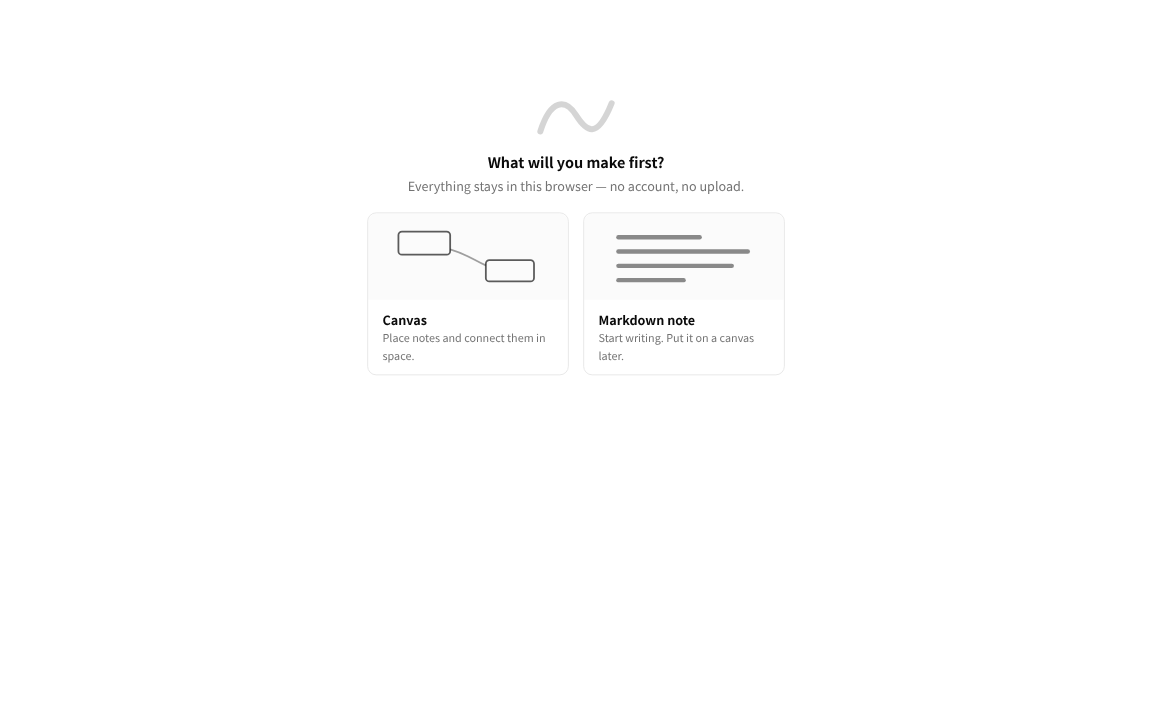
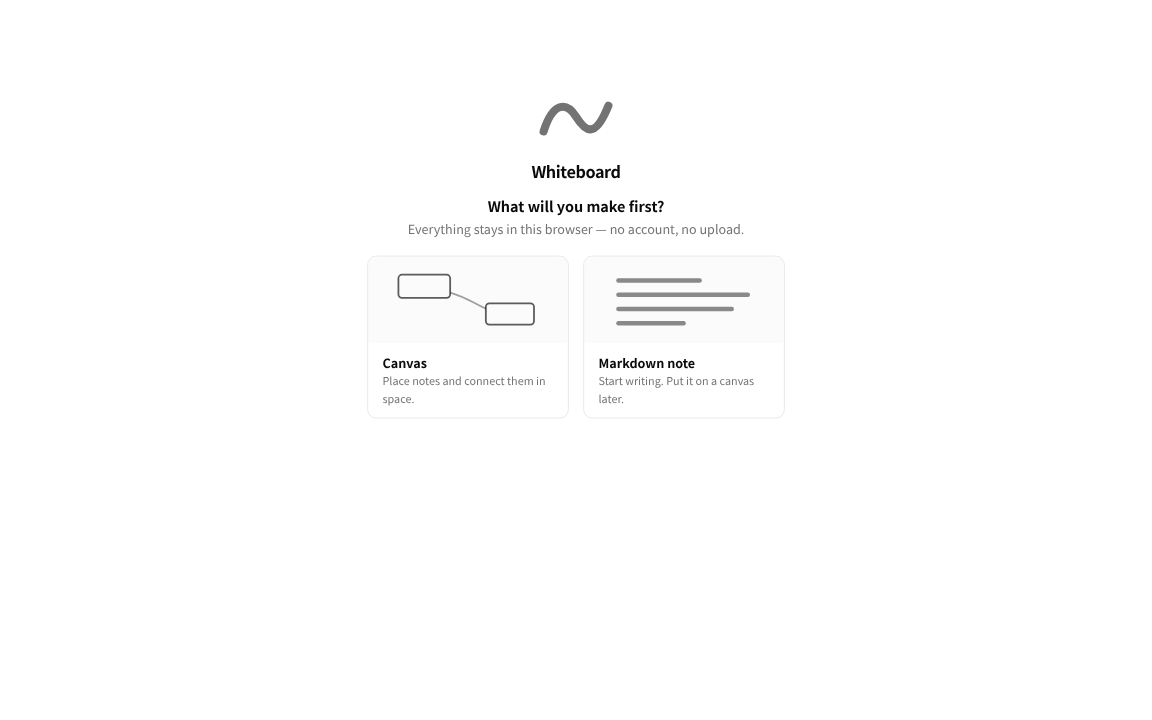
feat(web): the brand lockup greets arrivals on the onboarding chooser
The README's brand introduces the product everywhere except the product's
own first page. The chooser now opens with the lockup: the signature
squiggle at greeting size, performing its one-shot draw (wb-scribble,
never a loop), over the "Whiteboard" wordmark — per BRAND.md's grammar,
no frame (the viewport is the board) and the wordmark earns its place
because the name is not in the surrounding chrome.

empty-mark.svg retires with its only surface (the watermark reading of
the empty state); welcome-mark.svg replaces it, and the wb-scribble CSS
comment generalizes from error-only. BRAND.md's surface matrix and
inventory updated in the same increment, as it requires.

The docs snapshot suppresses animation before capturing, so the image is
the finished stroke (what reduced-motion users see) instead of whichever
mid-draw frame the screenshot happened to catch.

Claude-Session: https://claude.ai/code/session_01BoaNgqWUKbYJxk2azmRQKY

Changed region(s): [[0.3125, 0.2139, 0.6562, 0.55], [0.4688, 0.1222, 0.5312, 0.1833]]

diff --git a/apps/web/src/components/workspace-files/EmptyWorkspaceState.tsx b/apps/web/src/components/workspace-files/EmptyWorkspaceState.tsx
@@ -1,5 +1,5 @@
 import type { DocumentKind } from '@kamiazya/whiteboard-model'
-import EmptyMark from '../../brand/empty-mark.svg?react'
+import WelcomeMark from '../../brand/welcome-mark.svg?react'
 
 /**
  * The onboarding chooser both index pages show before a workspace has any
@@ -28,9 +28,11 @@ export function EmptyWorkspaceState({
 }) {
   return (
     <div className="flex flex-col items-center gap-3 py-16 text-center">
-      {/* The signature as a faint watermark: an empty gallery is the
-          blank board, not an error — the mark stays quiet (BRAND.md). */}
-      <EmptyMark className="text-muted-foreground/30" />
+      {/* The brand lockup greets arrivals: the signature draws itself once
+          and the wordmark names the product — this is the one surface where
+          the name is not already in the surrounding chrome (BRAND.md). */}
+      <WelcomeMark className="text-muted-foreground" />
+      <p className="text-lg font-semibold tracking-tight">Whiteboard</p>
       <p className="text-base font-semibold">What will you make first?</p>
       {subtitle !== undefined && (
         <p data-testid="empty-state-subtitle" className="text-muted-foreground -mt-2 text-sm">

diff --git a/apps/web/src/components/workspace-files/EmptyWorkspaceState.test.tsx b/apps/web/src/components/workspace-files/EmptyWorkspaceState.test.tsx
@@ -12,6 +12,12 @@ describe('EmptyWorkspaceState chooser', () => {
     const onCreate = vi.fn()
     render(<EmptyWorkspaceState onCreate={onCreate} subtitle="stays here" />)
 
+    // The brand lockup from the README greets arrivals here: the signature
+    // draws itself once (wb-scribble one-shot, never a loop) and the
+    // wordmark names the product — this is the one surface where the name
+    // is not already in the surrounding chrome.
+    expect(document.querySelector('[data-mark="welcome"] .wb-scribble')).toBeTruthy()
+    expect(screen.getByText('Whiteboard')).toBeTruthy()
     expect(screen.getByText('What will you make first?')).toBeTruthy()
     expect(screen.getByText('stays here')).toBeTruthy()
     // Each card teaches its kind in one line.

diff --git a/apps/web/src/docs-snapshots/onboarding-chooser.docs-snapshot.test.tsx b/apps/web/src/docs-snapshots/onboarding-chooser.docs-snapshot.test.tsx
@@ -35,6 +35,15 @@ describe('docs snapshot: onboarding chooser', () => {
       }
     })
 
+    // The welcome mark draws itself over 1.1s (wb-scribble); a screenshot
+    // mid-stroke is a different image every run. Suppress animation so the
+    // capture lands on the finished stroke — exactly what reduced-motion
+    // users see.
+    const still = document.createElement('style')
+    still.textContent = '* { animation: none !important; transition: none !important; }'
+    document.head.appendChild(still)
+    await new Promise((resolve) => requestAnimationFrame(() => resolve(undefined)))
+
     await page.screenshot({ path: resolveDocAssetPath('onboarding-chooser.png') })
   })
 })

diff --git a/apps/web/src/index.css b/apps/web/src/index.css
@@ -239,10 +239,10 @@
   }
 
   /*
-   * Error-state mark (src/brand/error-mark.svg via SVGR): the signature
-   * draws itself into a scribbled knot once on mount — the whiteboard
-   * gesture for "that's wrong". Base state is the finished scribble so
-   * the reduced-motion one-shot lands on it, not on a blank.
+   * One-shot draw for brand marks that perform their stroke on mount
+   * (error-mark's scribbled knot, welcome-mark's greeting signature).
+   * Base state is the finished stroke so the reduced-motion one-shot
+   * lands on it, not on a blank.
    */
   @keyframes wb-scribble {
     from {

diff --git a/apps/web/BRAND.md b/apps/web/BRAND.md
@@ -33,6 +33,7 @@ and each appears only where it earns its keep:
 | PWA launcher icon | no | no | At launcher size, inside a mask, the frame only costs stroke weight and safe-zone space | `public/icon-192.png`, `public/icon-512.png` |
 | README hero | yes | yes | A document context: the image needs containment to read as an object | `docs/assets/readme-mark.svg` (repo root `docs/`) |
 | OG / social card | yes | yes | Same document logic, plus the card must carry the name on foreign surfaces | `public/og-image.png` |
+| Onboarding chooser (empty workspace) | no | yes | The first page arrivals meet; the viewport is the board (no frame), and the name is not in the surrounding chrome, so the lockup introduces the product. The mark performs its one-shot draw (wb-scribble) | `src/brand/welcome-mark.svg` (SVGR) |
 
 The rule in one line: **the squiggle is the signature everywhere; the frame
 appears only where a container earns its keep; the wordmark only where the
@@ -133,7 +134,7 @@ All commands run from `apps/web/`.
 
 | Asset | Source of truth | Regenerate |
 | --- | --- | --- |
-| in-app marks (error / not-found / empty / home) | `src/brand/*.svg`, imported as React components via SVGR (`?react`) | edit the .svg directly |
+| in-app marks (error / not-found / welcome / home) | `src/brand/*.svg`, imported as React components via SVGR (`?react`) | edit the .svg directly |
 | ALPHA chip (AppShell) | `src/components/AppShell.tsx` — amber chip + honesty popover; the durable home of "data durability is not guaranteed" | code |
 | `public/boot-splash.svg` | hand-authored (this is the source) | edit directly; contract tests pin its grammar |
 | `docs/assets/readme-mark.svg` | hand-authored framed+captioned variant | edit directly |
